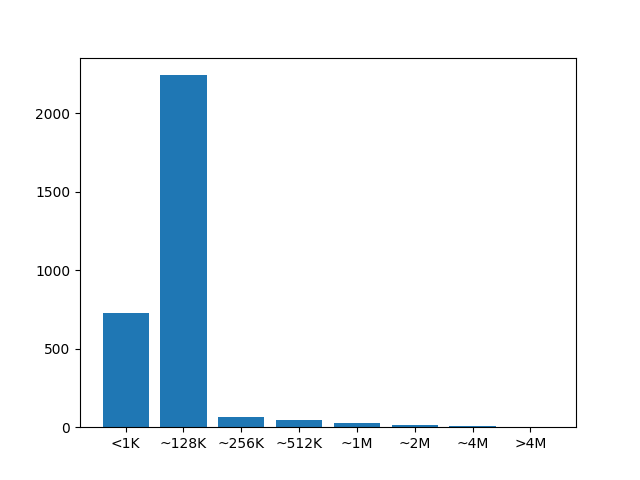
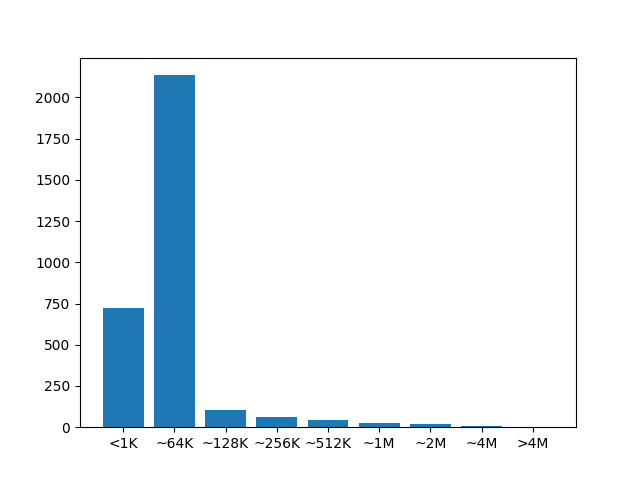
add 64k

diff --git a/anlysis_filesize.py b/anlysis_filesize.py
@@ -5,31 +5,33 @@ import pandas as pd
 
 
 def main():
-    df = pd.read_csv('data/wordpress:php8.2_nydus/2023-03-28-15:30:35.csv')
+    df = pd.read_csv("data/wordpress:php8.2_nydus/2023-03-28-15:30:35.csv")
 
     def classify(x):
         if x <= 1024:
-            return '<1K'
+            return "<1K"
+        if x <= 64 * 1024:
+            return "~64K"
         if x <= 128 * 1024:
-            return '~128K'
+            return "~128K"
         if x <= 256 * 1024:
-            return '~256K'
+            return "~256K"
         if x <= 512 * 1024:
-            return '~512K'
+            return "~512K"
         if x <= 1024 * 1024:
-            return '~1M'
+            return "~1M"
         if x <= 2 * 1024 * 1024:
-            return '~2M'
+            return "~2M"
         if x <= 4 * 1024 * 1024:
-            return '~4M'
-        return '>4M'
+            return "~4M"
+        return ">4M"
 
-    order = ['<1K', '~128K', '~256K', '~512K', '~1M', '~2M', '~4M', '>4M']
-    df['c_file_size'] = df['file_size'].apply(classify)
+    order = ["<1K", "~64K", "~128K", "~256K", "~512K", "~1M", "~2M", "~4M", ">4M"]
+    df["c_file_size"] = df["file_size"].apply(classify)
 
-    # data = df.groupby('c_file_size')['file_size'].sum()
+    # data = df.groupby("c_file_size")["file_size"].sum()
 
-    data = df['c_file_size'].value_counts().reindex(order)
+    data = df["c_file_size"].value_counts().reindex(order)
 
     plt.bar(data.index, data.values)
     plt.savefig("file_size.png")
